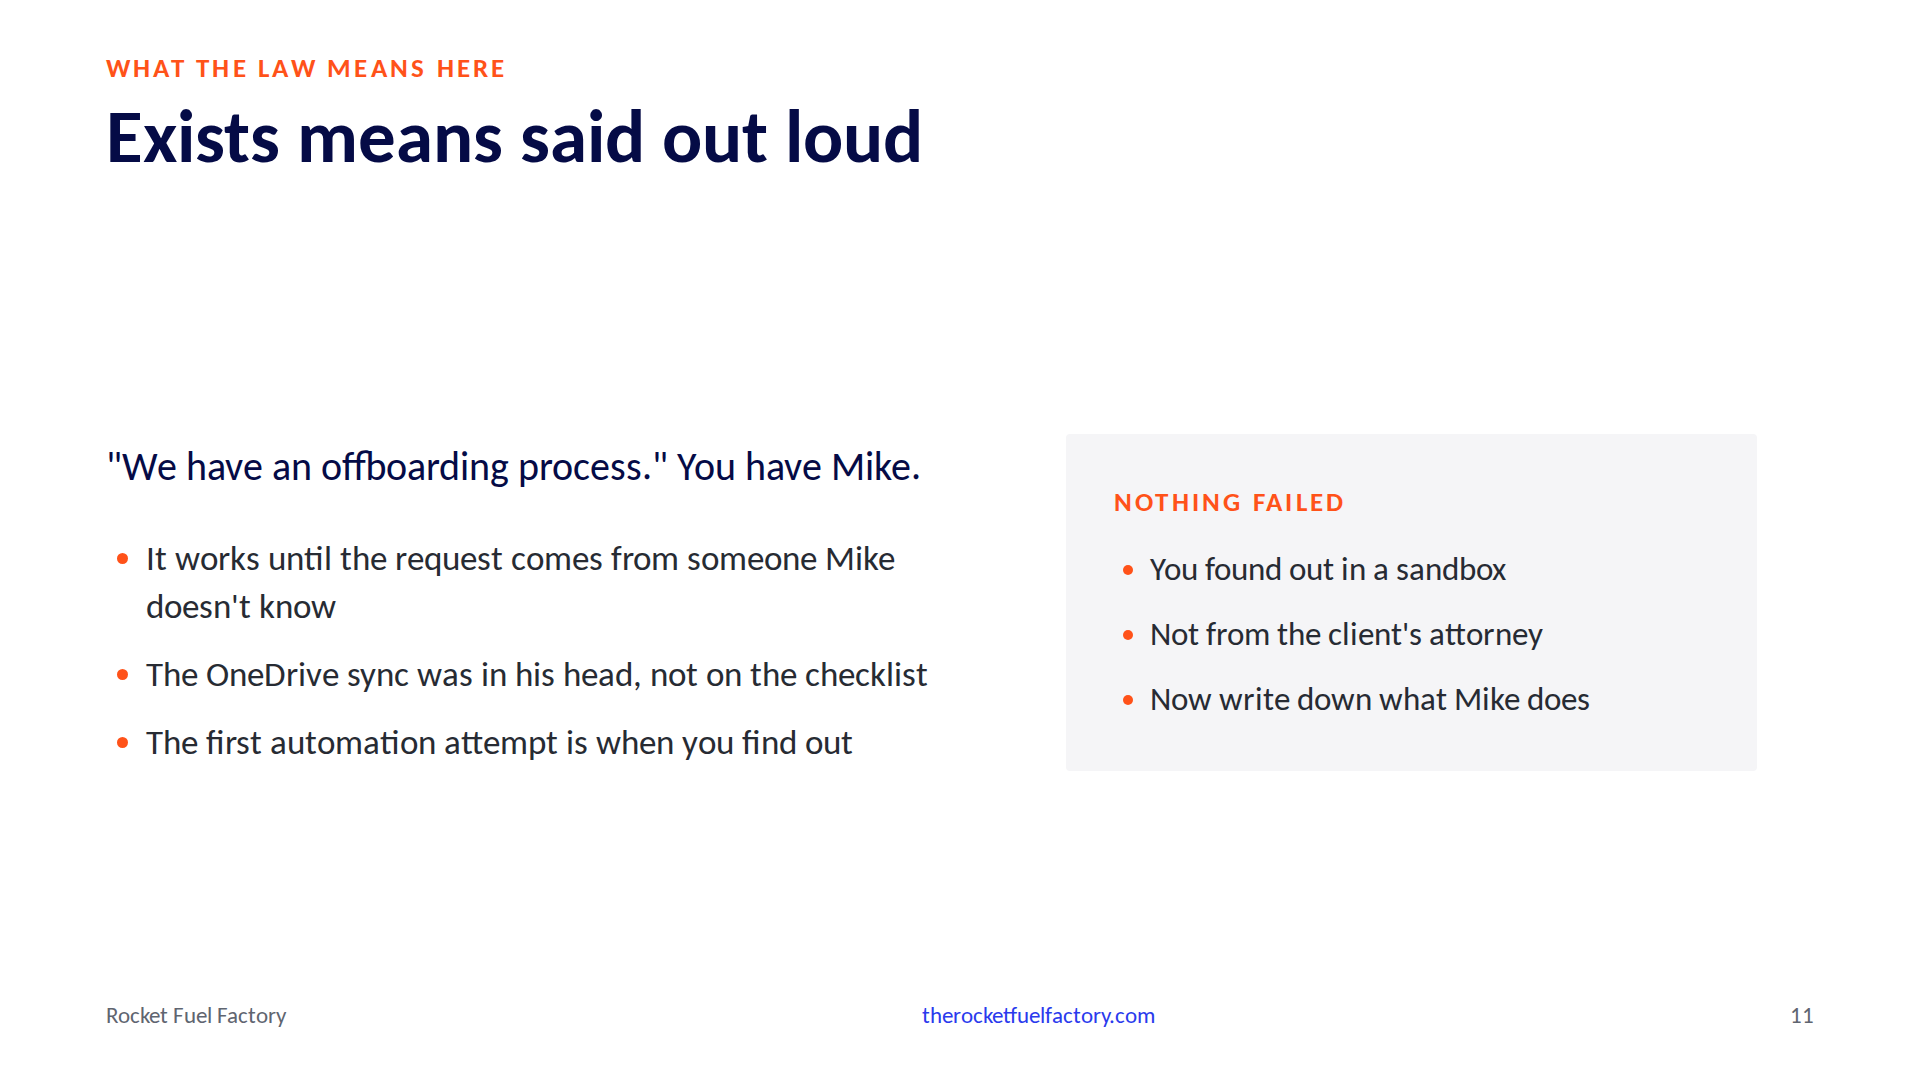
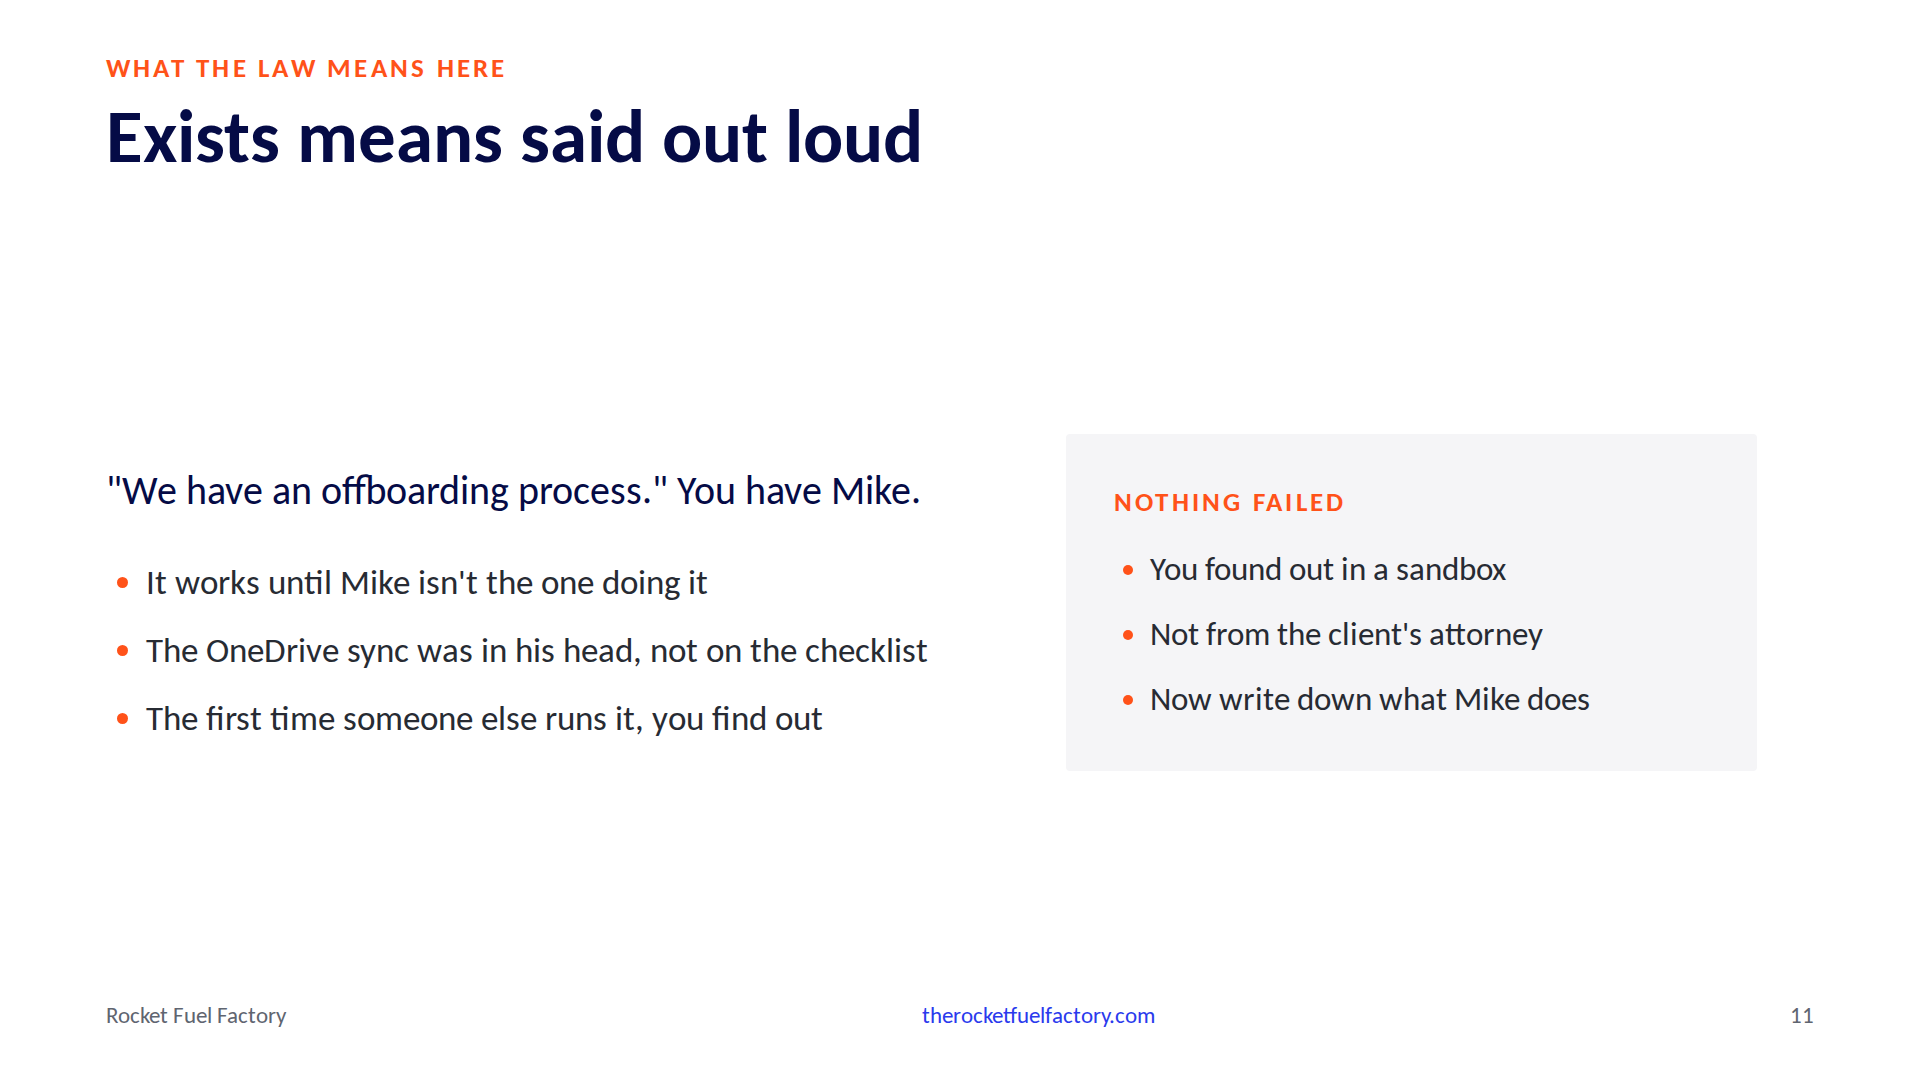
Offboarding example: the process works until Mike isn't the one doing it

Changed region(s): [[0.0625, 0.4278, 0.5, 0.7028]]

diff --git a/src/data/notes.js b/src/data/notes.js
@@ -14,7 +14,7 @@ export const notes = {
   'demo-strong': 'Target 8:30. Loud punchline: same tool, same task, the only thing that changed was how you asked. Under 150 words, Dr. Patel named, forwardable. Then the bridge, one breath, before the click. That is communication: hand over the judgment calls, not just the facts. Now take it to something bigger than an email. When you say we onboard new users, what you have is a ticket with the facts. The judgment calls are in someone\'s head. You just saw what happens when you hand that to a machine. Click.',
   'demo-ask': 'Target 5:30. Bridge, said before the click: this is where most people get frustrated and stop. Do not stop, and do not just ask it to try again. Ask it how you should have asked. Show the answer. Five things it wanted up front: who is reading, what on top of it was supposed to mean, whether the Q2 detail was a feature or a liability, tone, any business ask. Then read the punchline off the slide, slowly, and do not editorialize: I put it in, that is a 50/50 guess I should not have made silently. It knows. It just described abdication better than I did. Try this tonight on the last answer that disappointed you.',
   'aharons-law': 'Target 9:30. SLOW. Say the law, credit Aharon, two full seconds of silence. Then: I have been quoting this for years and it means something different every time. Here is what it means today. Click.',
-  'exists-means-said-out-loud': 'Target 10:00. The shop example, no AI in it. You say we have an offboarding process. A client calls: the controller left Friday, is everything shut off? Your tech says yes. Three weeks later the controller still has the company OneDrive synced to a personal laptop, because the process was Mike, and Mike remembered the sync when the account was in his head and forgot it when the ticket came from someone he did not know. The process existed exactly as long as Mike was the one doing it. You cannot automate that. Not because the tool cannot; because there is nothing there until someone writes down what Mike does. The first time you try, you find out you had a person, not a process. Card: nothing failed. You found out in a sandbox, not from the client attorney. Bridge out: that is true of every one of the six I am about to show you, and it is why most shops automate the wrong ones. Click.',
+  'exists-means-said-out-loud': 'Target 10:00. The shop example, no AI in it. You say we have an offboarding process. Mike is on vacation. A client calls: the controller left Friday, is everything shut off? The tech covering runs the checklist, every box, says yes. Three weeks later the controller still has the company OneDrive synced to a personal laptop. Nobody skipped a step. The step was never on the list. It was in Mike, because Mike is the one who set that client up and Mike remembers. The process existed exactly as long as Mike was the one doing it. That is what does not exist means. And you cannot automate it, not because the tool cannot, because there is nothing there until someone writes down what Mike knows. An automation is just the next person who is not Mike. Card: nothing failed. You found out in a sandbox, not from the client attorney. Bridge out: that is true of every one of the six I am about to show you, and it is why most shops automate the wrong ones. Click.',
   'the-wrong-things': 'Target 12:00. The one that bristles. Some people in the room sell auto-replies and templated QBRs. Say it anyway: that is automating the customer away. Automate the automaton instead. Line to land: automate to give time back to the customer, not to hide from them.',
   'where-delivery-leaks': 'Target 14:00. SLOW. Read all six. Each description is who the process is for, not what it saves you. Every one of these runs today on somebody filling in the blanks. Say: pick one. This is what Table 3 works from at 4:15.',
   'divider-where-ai-belongs': 'Target 16:00. Transition. Speed is what these machines give you unconditionally. It exposes bad instructions instantly and executes them instantly. Fast is only a gift once you have said what good looks like.',

diff --git a/src/components/slides/011-ExistsMeansSaidOutLoud.jsx b/src/components/slides/011-ExistsMeansSaidOutLoud.jsx
@@ -10,9 +10,9 @@ export default function ExistsMeansSaidOutLoud({ slideNumber }) {
       slideNumber={slideNumber}
       paragraph='"We have an offboarding process." You have Mike.'
       points={[
-        "It works until the request comes from someone Mike doesn't know",
+        "It works until Mike isn't the one doing it",
         'The OneDrive sync was in his head, not on the checklist',
-        'The first automation attempt is when you find out',
+        'The first time someone else runs it, you find out',
       ]}
       cardTitle="Nothing failed"
       cardItems={[

diff --git a/docs/OUTLINE.md b/docs/OUTLINE.md
@@ -45,7 +45,7 @@ Closing line: If you can't write the rule, you can't hire your way out of it eit
 9. Forwardable without edits (full output). Under 150 words, Dr. Patel named. Loud: same tool, same task, the only thing that changed was how you asked. Bridge to Aharon, spoken: that is communication, hand over the judgment calls, not just the facts. Now take it to something bigger than an email. When you say we onboard new users, what you have is a ticket with the facts; the judgment calls are in someone's head. You just saw what happens when you hand that to a machine.
 
 10. Aharon's first law (pull statement). SLOW. You can't automate a process that doesn't exist. Aharon Chernin, Rewst. The meaning here: exists means has been said out loud. The law is not about the shop with no process; it is about the shop that thinks it has one and actually has a person who knows what the owner meant. The first automation attempt is the first receiver that cannot nod and fill in the blanks, which is why it is worth doing even if it never ships. Nothing failed; you found out cheaply. Then click to the offboarding example, which is where the meaning lands on a shop instead of a prompt.
-11. Exists means said out loud (two-column, orange). The shop example, no AI in it. "We have an offboarding process." You have Mike. It works until the request comes from someone Mike doesn't know; the OneDrive sync was in his head, not on the checklist; the first automation attempt is when you find out. Card: nothing failed. You found out in a sandbox, not from the client's attorney. Now write down what Mike does. Bridge out: true of every one of the six coming next, and why most shops automate the wrong ones.
+11. Exists means said out loud (two-column, orange). The shop example, no AI in it. "We have an offboarding process." You have Mike. It works until Mike isn't the one doing it; the OneDrive sync was in his head, not on the checklist; the first time someone else runs it, you find out. Mike was on vacation, the covering tech ran every box, nobody skipped a step, the step was never on the list. An automation is just the next person who is not Mike. Card: nothing failed. You found out in a sandbox, not from the client's attorney. Now write down what Mike does. Bridge out: true of every one of the six coming next, and why most shops automate the wrong ones.
 
 12. Most MSPs automate the wrong things (comparison, orange). Automating the customer away: ticket auto-replies, templated QBRs, onboarding nobody attends. Automating the automaton: reading one screen and typing into another, checking the same thing every morning, chasing the same approval. Line: automate to give time back to the customer, not to hide from them.
 13. Six processes, one sentence each (agenda, orange). SLOW. Onboarding so the client's first day works; offboarding so nothing is left open; alert triage so a human only sees what needs one; access requests so the identity check happens; status updates so they hear it from you first; license reconciliation so you stop paying for ghosts. Pick one. Table 3 works from this.
